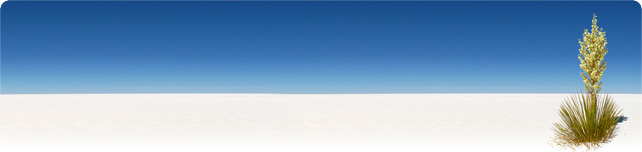
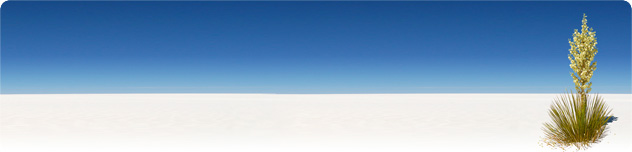
Adjusted layout for 1024px displays. Small illustrations.

Changed region(s): [[0.8418, 0.0789, 0.962, 1.0]]

diff --git a/public/stylesheets/echologic.css b/public/stylesheets/echologic.css
@@ -26,13 +26,14 @@ strong {
 }
 
 #header {
-  width:       970px;
+  width:       945px;
   margin:      0 auto;
+  padding:     0 23px;
 }
 
 #echologicLogo {
   float:       left;
-  margin:      23px 0 -10px 3px;
+  margin:      23px 0 -10px 0;
 }
 
 #echologicLogo img {
@@ -77,7 +78,7 @@ strong {
 
 #loginContainer .label {
   color:       #1A4864;
-  width:       114px;
+  width:       137px;
   display:     inline-block;
   margin:      15px 0 3px 0;
   padding:     0 7px;
@@ -87,11 +88,11 @@ strong {
 }
 
 #loginContainer .field {
-  width:       112px;
-  background:  transparent url(../images/page/loginfield.png) no-repeat;
+  width:       137px;
+  background:  transparent url(../images/page/login_field.png) no-repeat;
   border:      none;
   height:      19px;
-  padding:     1px 7px 1px 7px;
+  padding:     2px 7px 0px;
   font-size:   0.85em;
   color:       #1A4864;
 }
@@ -102,8 +103,11 @@ strong {
   border:      none;
   height:      19px;
   color:       #fff;
-  font-size:   0.65em;
+  font-size:   0.70em;
   font-weight: bold;
+  padding:      0 0 2px;
+  position:    relative;
+  top:         -1px;	 
 }
 
 #loginContainer .submit:hover {
@@ -111,27 +115,26 @@ strong {
 }
 
 #loginContainer .sublabel {
-  width:       114px;
+  width:       137px;
   display:     inline-block;
   margin:      3px 0;
   padding:     0 7px;
   font-size:   0.65em;
   cursor:      default;
+  display:     none;
 }
 
 #echologicContainer {
-  width:       970px;
-  min-width:   970px;
+  width:       945px;
   margin:      0 auto;
-  padding:     10px 23px 0 23px;
+  padding:     10px 23px;
   z-index:     5;
   position:    relative;
   clear:       both;
 }
 
 #missionStatementContainer {
-  width:       65%;
-  min-width:   540px;
+  width:       620px;
   clear:       both;
   float:       left;
   margin:      0 0 0 0;
@@ -150,7 +153,7 @@ strong {
 
 #missionStatement #yuccaHotspot {
   position:    absolute;
-  left:        540px;
+  left:        530px;
   top:         5px;
   width:       90px;
   height:      140px;
@@ -163,7 +166,7 @@ strong {
 #missionStatementHolder {
   position:    absolute;
   top:		   0px;
-  left:        -5px;
+  left:        -10px;
   width: 	   580px;
   text-align:  center;
   color:       #FFF;
@@ -190,8 +193,7 @@ strong {
 }
 
 #newsContainer {
-  width:       31%;
-  min-width:   200px;  
+  width:       285px;
   float:       right;
   margin:      0;  
 }
@@ -205,9 +207,9 @@ strong {
   cursor:      pointer;
 }
 
-#news img {
+#twitterBird img {
   position:    relative;
-  right:       -234px;
+  right:       -217px;
   top:         -14px;
   cursor:      pointer;
   z-index:     10;
@@ -217,7 +219,7 @@ strong {
 #newsHolder {
   position:    absolute;
   top:	  	   0px;
-  width: 	     295px;
+  width: 	   285px;
 }
 
 #newsHolder .newsTitle {
@@ -237,9 +239,9 @@ strong {
 }
 
 .mainBox {
-  width:       970px;
-  min-width:   970px;
+  width:       945px;
   margin:      0 auto;
+  padding:     0 23px;
 }
 
 #mainBoxContent {
@@ -249,7 +251,7 @@ strong {
 
 #staticContent {
   float:       left;
-  width:       630px;
+  width:       620px;
   padding:     2px 5px;
 }
 
@@ -288,11 +290,10 @@ strong {
   font-weight: bold;
   color:       #7bb031;
   position:    relative;
-  right:       8px;
-  bottom:      15px;
+  right:       12px;
+  bottom:      18px;
   text-align:  right;
-  line-height: 43px;
-  margin:      0 0 18px 0;
+  line-height: 45px;
   cursor:      default;
 }
 
@@ -413,7 +414,7 @@ strong {
 
 .cornerIllustration {
   float:         right;
-  height:        66px;
+  height:        68px;
   margin:        -4px 10px 0;
 }
 

diff --git a/public/stylesheets/tabs.css b/public/stylesheets/tabs.css
@@ -1,16 +1,10 @@
 .tabContainer {
   height:       61px;
-/*
-  margin:       0 0 -23px 0;
-*/
   margin:       0 auto -17px auto;
   clear:        both;
-  z-index:      10;
-  overflow:     visible;
-/*  left:         100px;*/
-  position:     relative;
-  max-width:    900px;
+  width:        900px;
   text-align:   center;
+  z-index:      10;
 }
 
 .tabContainer a, .tabContainer a:visited {

diff --git a/app/helpers/static_content_helper.rb b/app/helpers/static_content_helper.rb
@@ -64,7 +64,7 @@ module StaticContentHelper
   def insert_breadcrumb(main_link, sub_link, sub_menu_title='.title', show_illustration=true)
     if main_link != sub_link
       if show_illustration 
-        pic_resource = 'page/illustrations/' + sub_link.split('/')[2..3].join('_') + '.png'
+        pic_resource = 'page/illustrations/' + sub_link.split('/')[2..3].join('_') + '_small.png'
         concat image_tag(pic_resource, {:class => 'cornerIllustration'})
       end
     else
